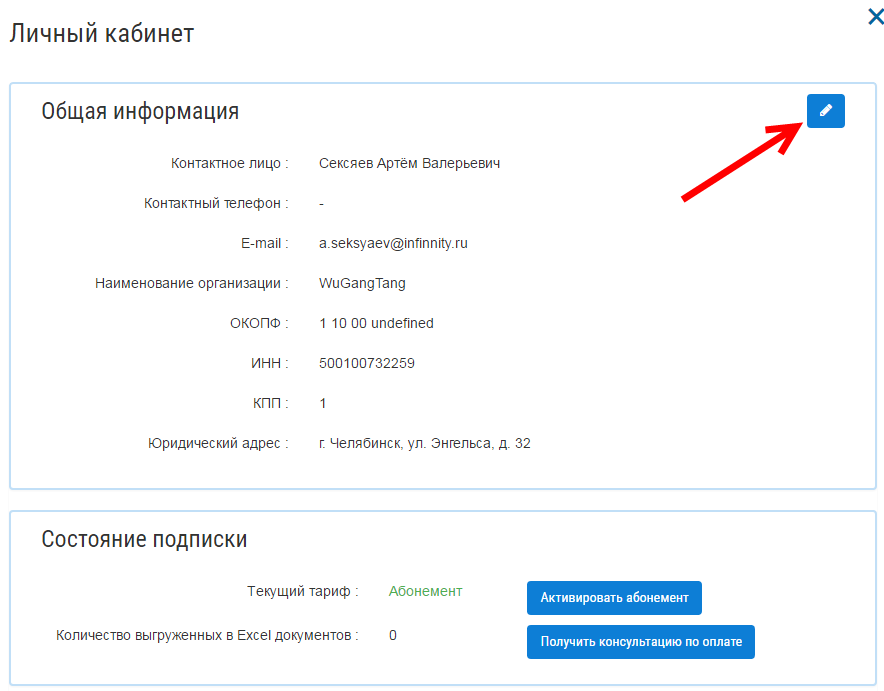
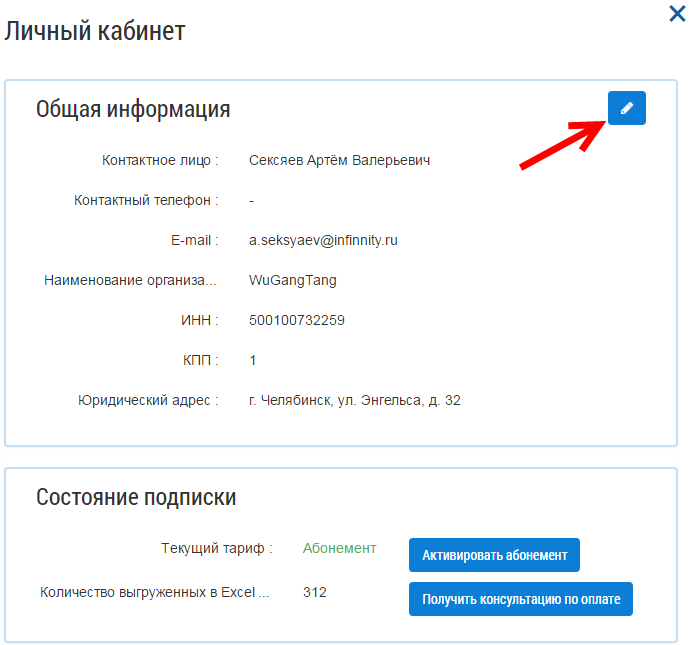
Обновление информационной справки для релиза 1.0.6. Обновлён подраздел 1.4, актуализированы картинки. Обновлён подраздел 4.1. Добавлено описание по выбору УО при создании МКД.

diff --git a/docs/source/conf.py b/docs/source/conf.py
@@ -59,9 +59,9 @@ author = u'Infinnity Solutions'
 # built documents.
 #
 # The short X.Y version.
-version = u'0.8.0'
+version = u'1.0.6'
 # The full version, including alpha/beta/rc tags.
-release = u'0.8.0'
+release = u'1.0.6'
 
 # The language for content autogenerated by Sphinx. Refer to documentation
 # for a list of supported languages.

diff --git a/docs/source/04-management-agreements/4.1.rst b/docs/source/04-management-agreements/4.1.rst
@@ -38,13 +38,17 @@
 
 	.. image:: ../_images/04-management-agreements/50.png
 
-5. Выбрать из выпадающего списка управляющую организацию.
+5. Выбрать управляющую организацию (УО):   
 
-6. Нажать кнопку «Добавить».
+	- Если в системе не зарегистрировано ни одной УО, то данный шаг отсутствует.
+	
+	- Если в системе зарегистрирована одна УО, то она выбирается для МКД автоматически.
+	
+	- Если в системе зарегистрированы две и более УО, то необходимо выбрать УО из выпадающего списка и нажать кнопку «Добавить».
 
 	.. image:: ../_images/04-management-agreements/51.png	
 
-7. Заполнить обязательные поля в открывшейся форме:
+6. Заполнить обязательные поля в открывшейся форме:
 
 	.. image:: ../_images/04-management-agreements/52.png
 
@@ -58,7 +62,7 @@
 	
 	.. image:: ../_images/04-management-agreements/56.png
 
-8. Нажать кнопку «Сохранить».
+7. Нажать кнопку «Сохранить».
 	
 После этого дом добавится в журнал «МКД».
 
